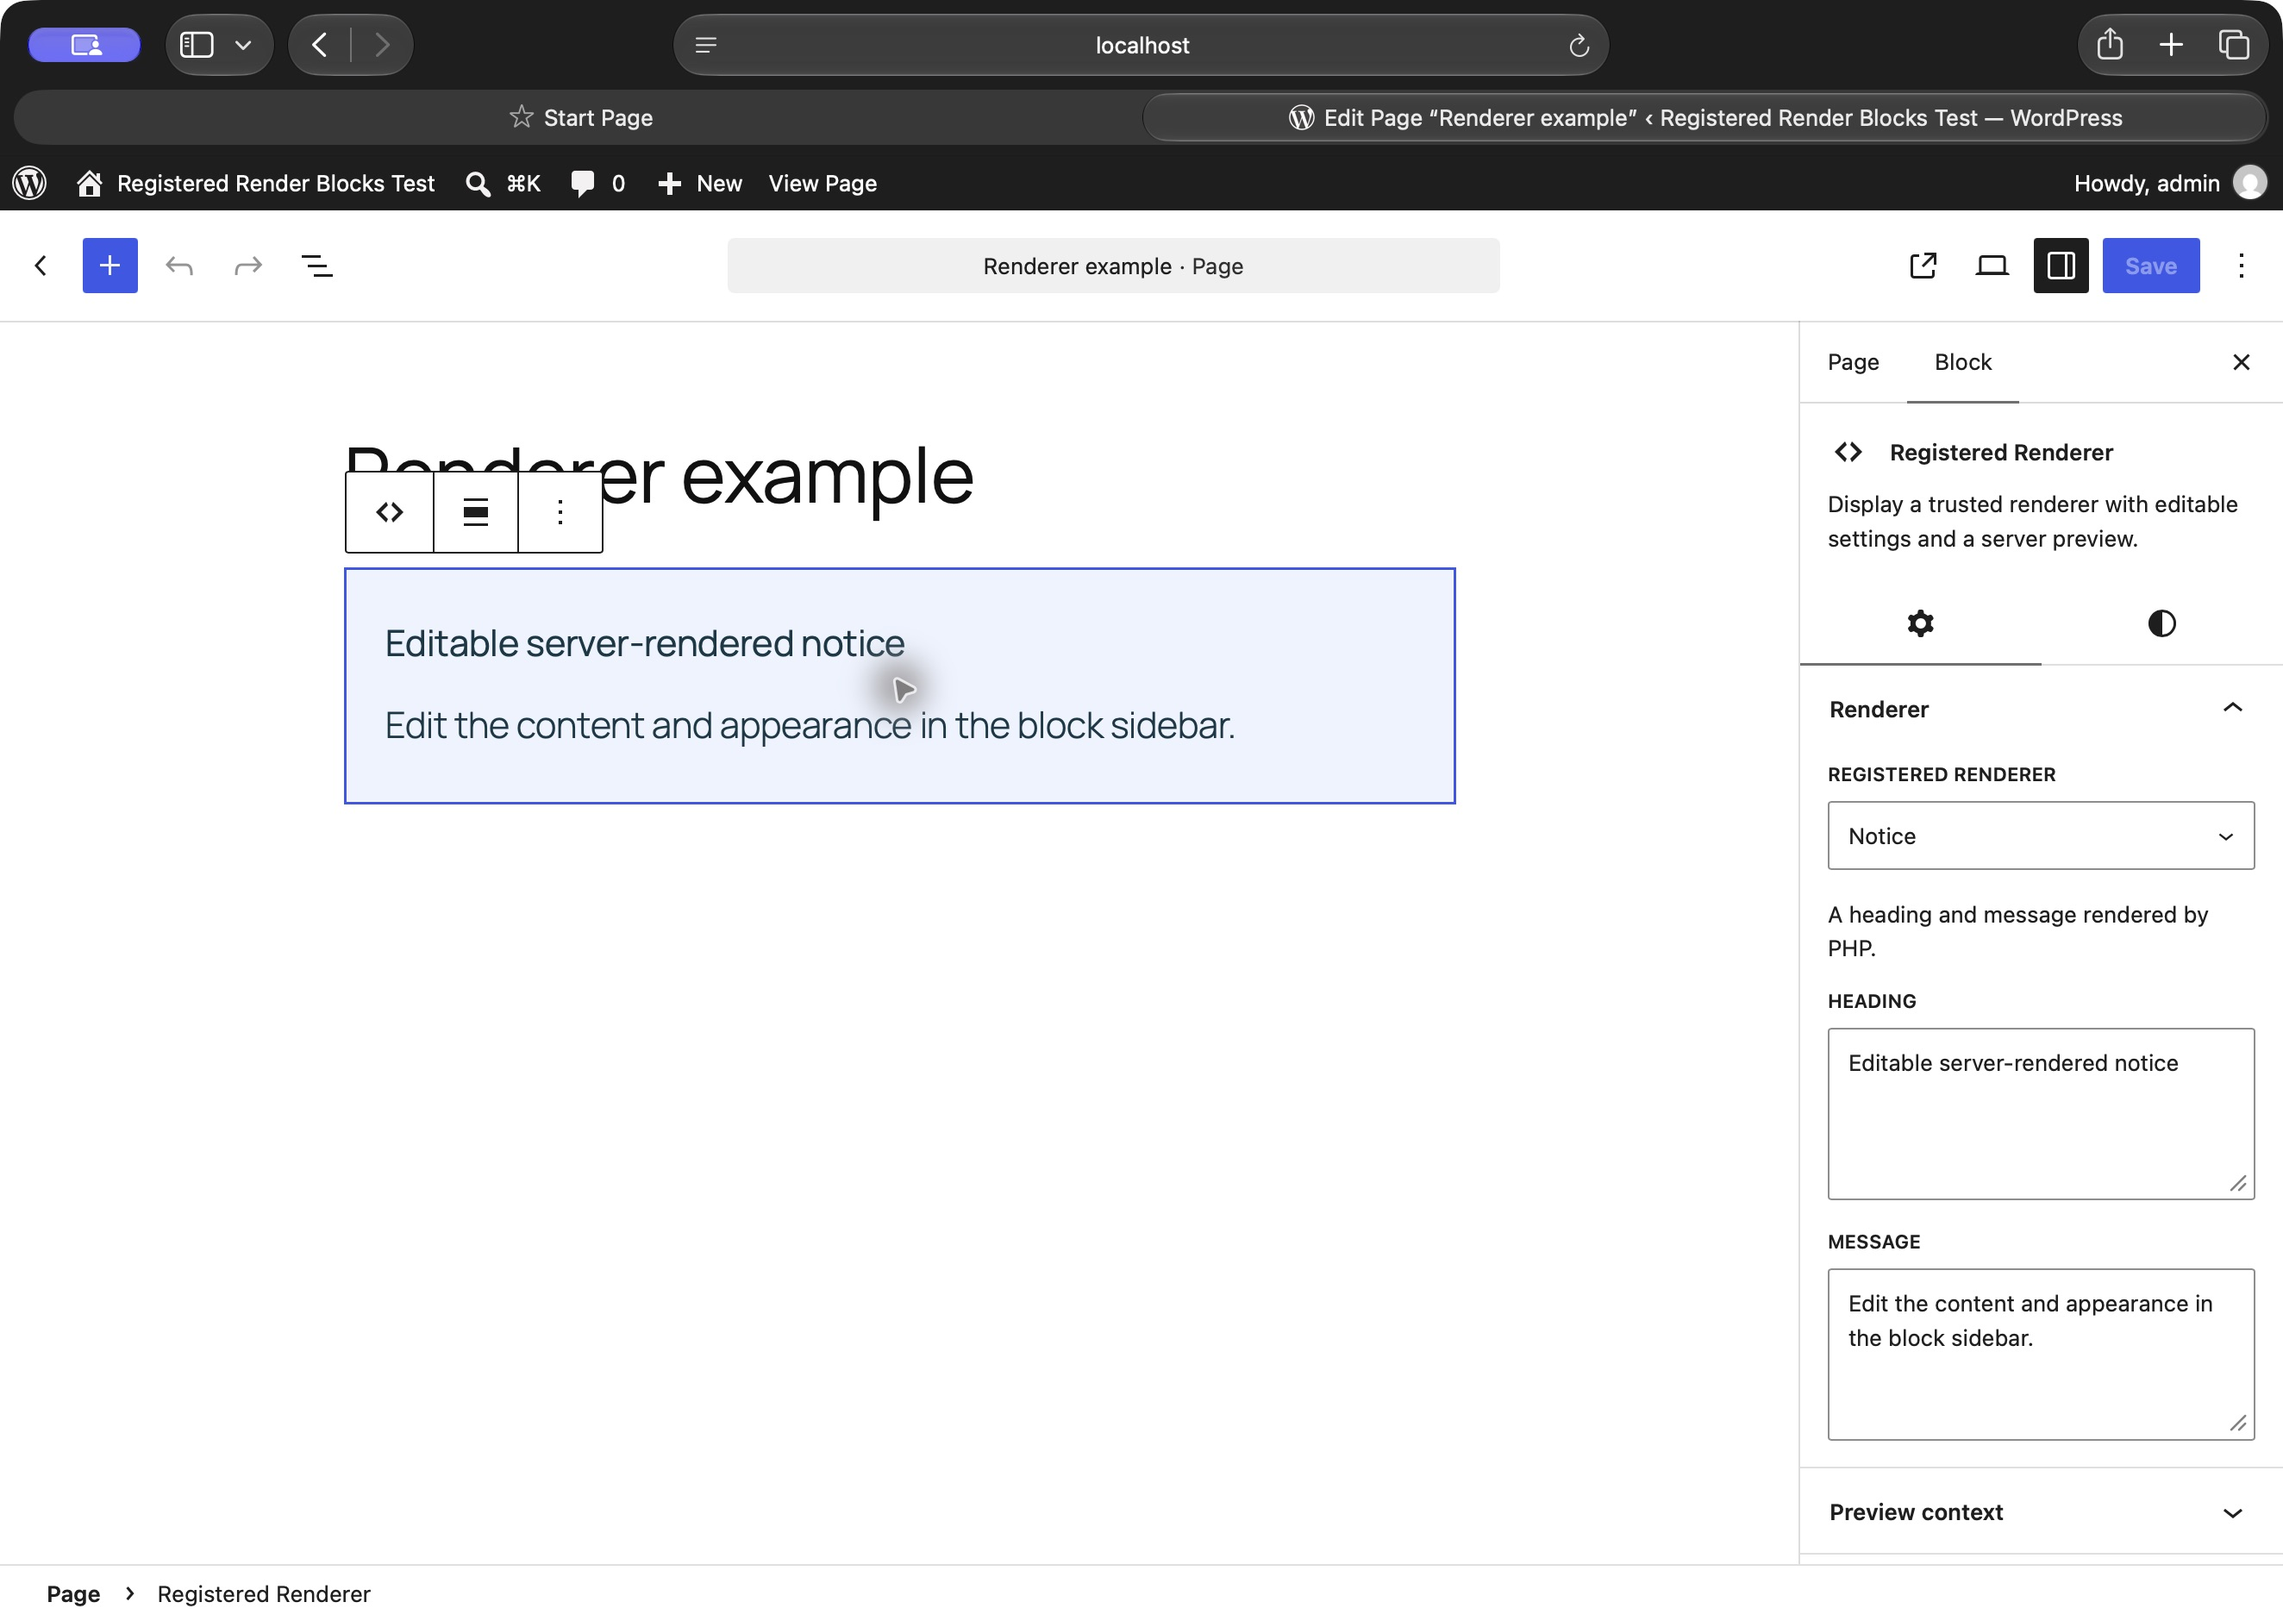
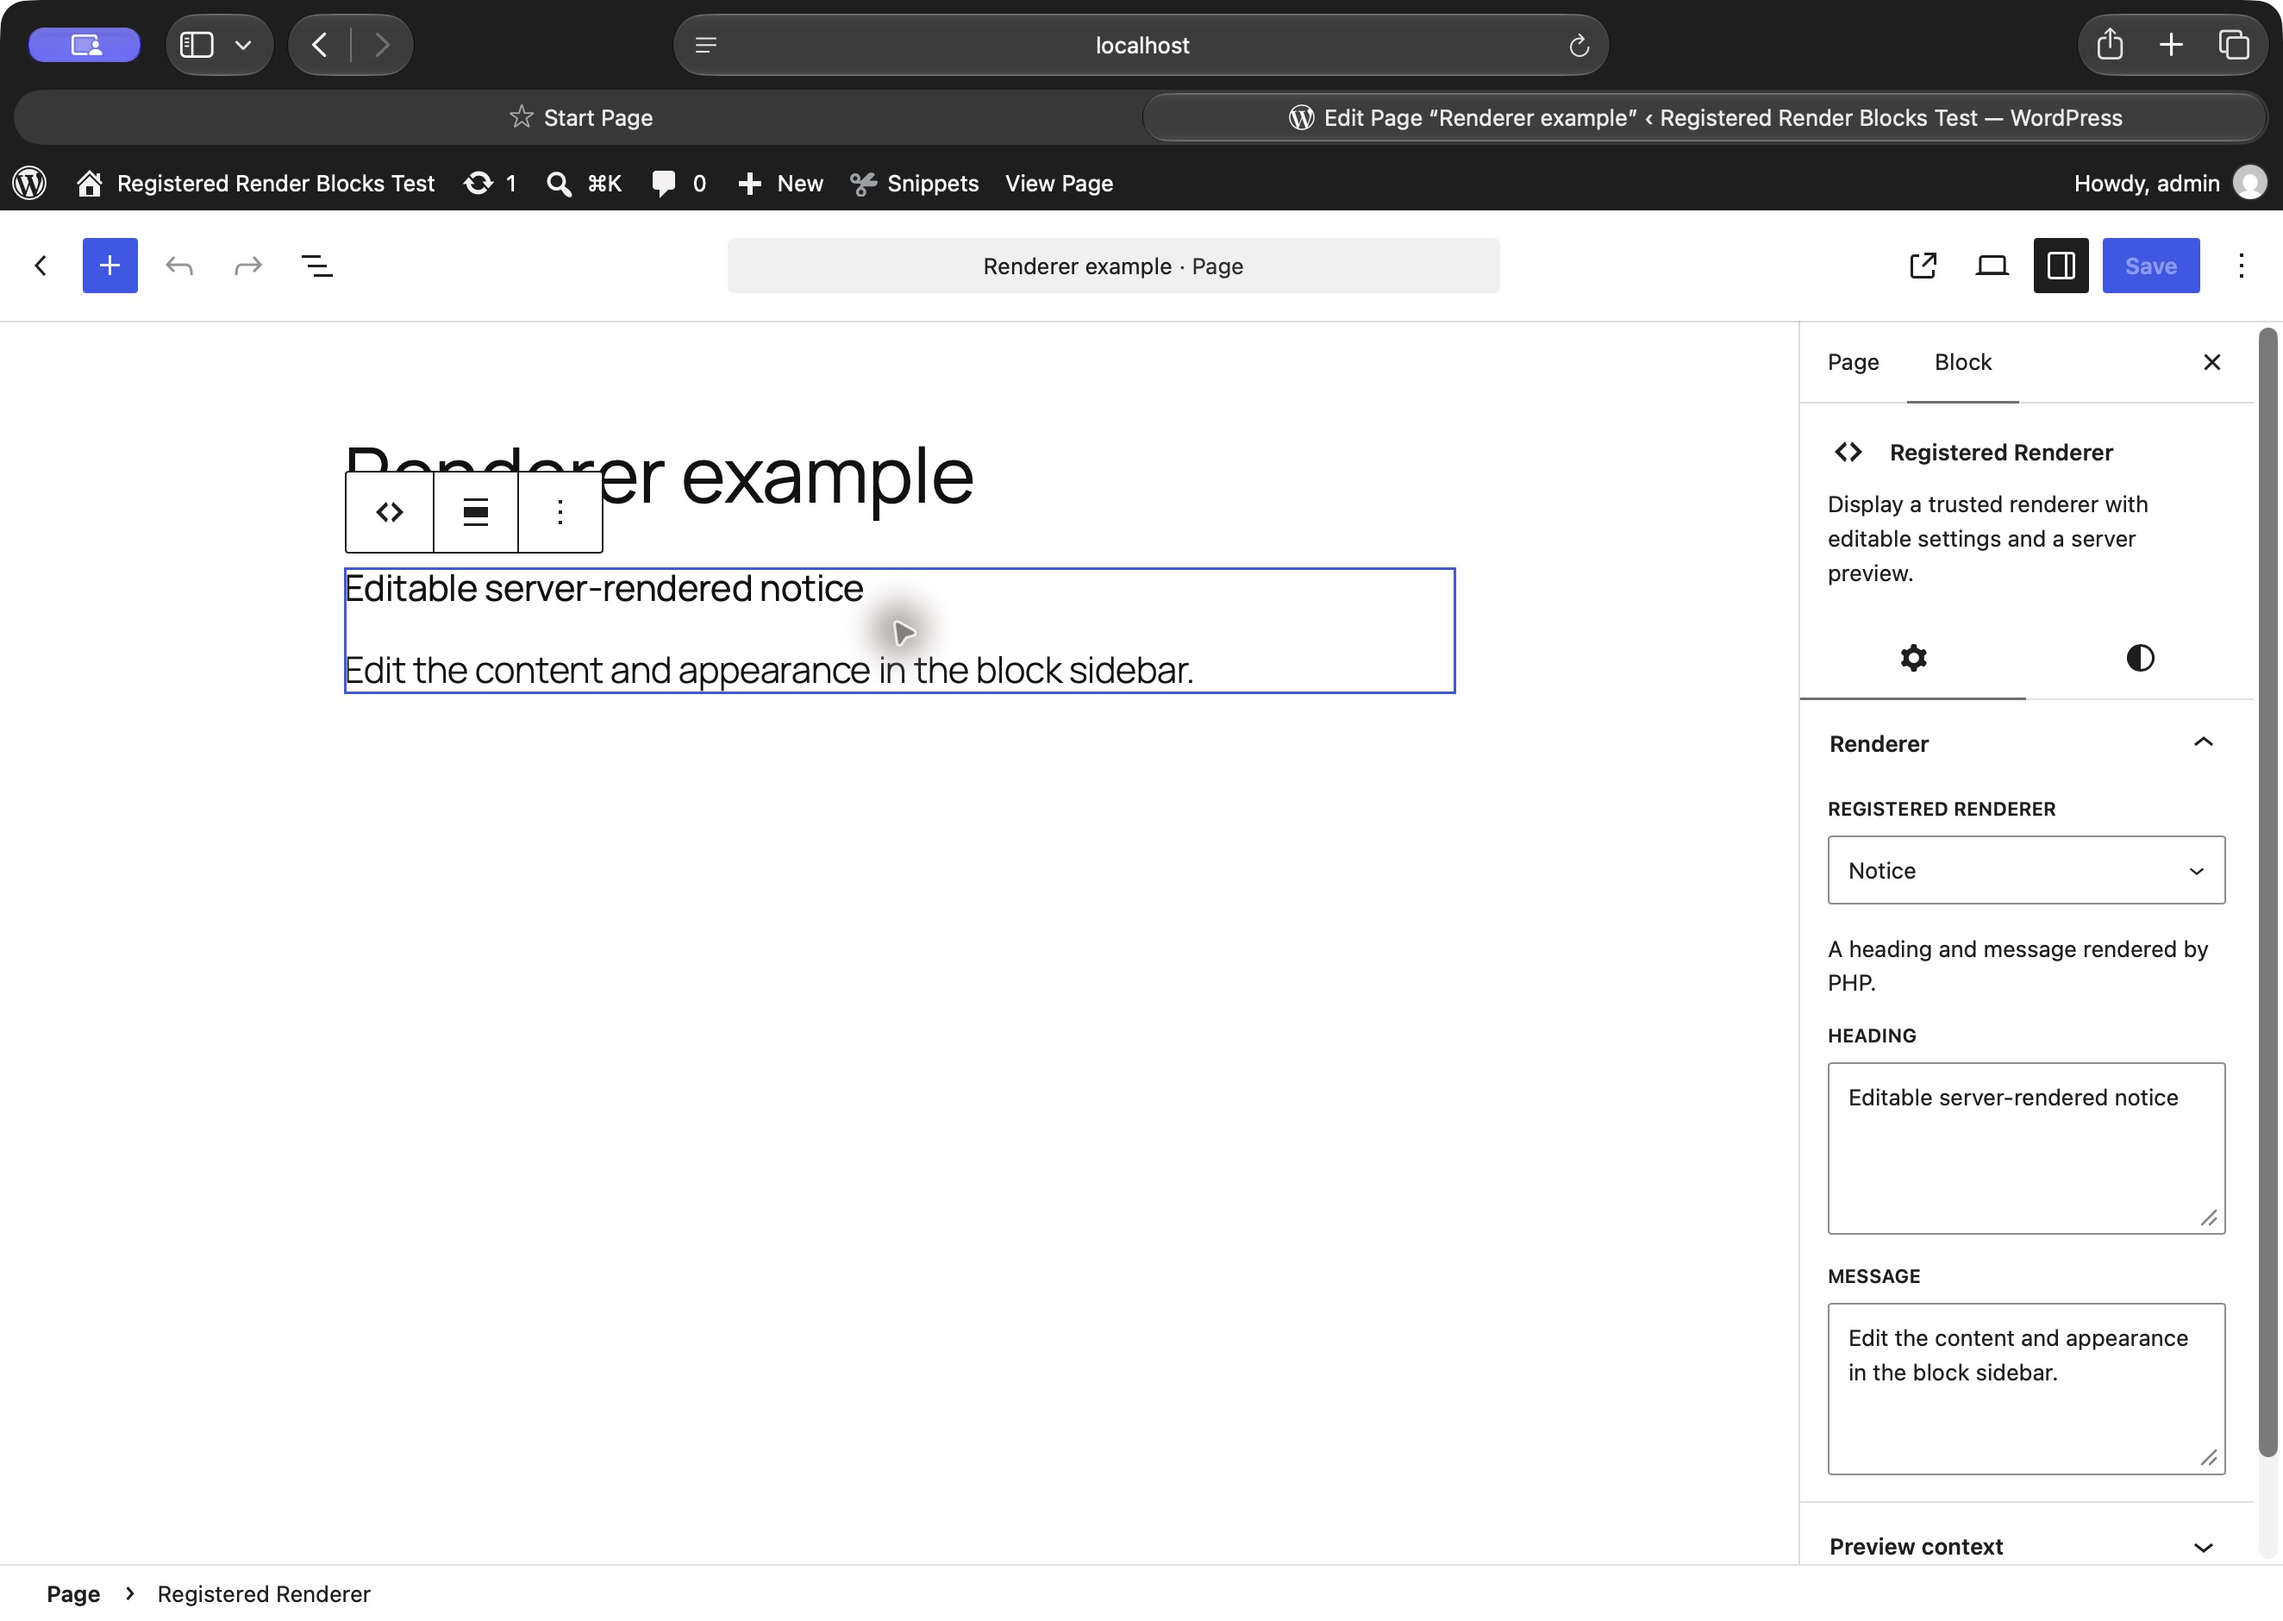
Show hook-rendered examples without decorative block styling

diff --git a/docs/examples/README.md b/docs/examples/README.md
@@ -6,7 +6,7 @@ These are working examples captured on 7 October 2026 with Registered Render Blo
 
 Create a **PHP** snippet in Code Snippets, copy [php-card.php](php-card.php) without its opening `<?php`, select **Run everywhere**, and activate it. Registered Render Blocks must be active. Running everywhere allows registration on the frontend and editor preview requests.
 
-Insert **Registered Renderer** and choose **PHP greeting from Code Snippets**. The snippet registers `examples/php-card` on `rrb_register_renderers`; its callback returns escaped HTML. The heading and message become settings in the block sidebar. Native block Styles controls provide the colors and padding shown below.
+Insert **Registered Renderer** and choose **PHP greeting from Code Snippets**. The snippet registers `examples/php-card` on `rrb_register_renderers`; its callback returns escaped HTML. The heading and message become settings in the block sidebar. The examples use the snippet output with the theme’s normal styles: no background box or padding is added. Native block Styles controls remain optional. The thin editor selection outline is WordPress UI, not frontend markup.
 
 ![Active PHP registration snippet in Code Snippets](php-snippet-source.jpg)
 

diff --git a/README.md b/README.md
@@ -17,6 +17,8 @@ Turn trusted PHP output into editable WordPress blocks. Choose a renderer, adjus
 - Lets you search for a record to preview without saving that preview choice into the page.
 - Loads registered CSS and JavaScript assets for developer integrations.
 
+The renderer adds no default background box or padding. Its callback supplies the HTML; the theme and optional block style choices determine its appearance.
+
 PHP code lives in your plugin or theme. Editors change typed settings rather than executable source. ACF and WooCommerce are optional integrations.
 
 ## Editor screenshot
